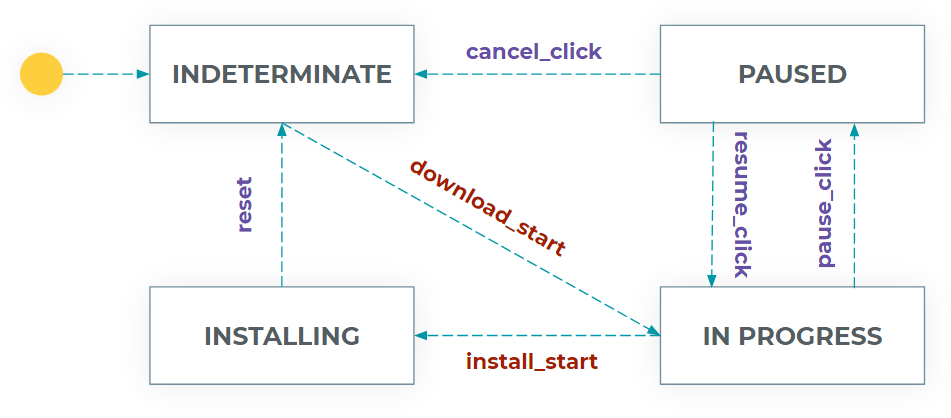
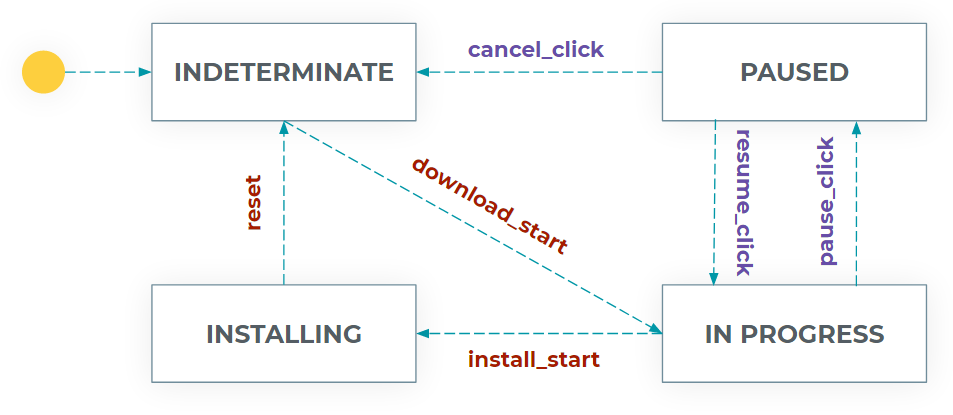
Changed docs

diff --git a/aptoide-views/src/main/java/cm/aptoide/aptoideviews/downloadprogressview/DownloadProgressView.kt b/aptoide-views/src/main/java/cm/aptoide/aptoideviews/downloadprogressview/DownloadProgressView.kt
@@ -16,7 +16,12 @@ import rx.Observable
 
 
 /**
- * This view is responsible for handling the display of download progress
+ * This view is responsible for handling the display of download progress.
+ *
+ * This is handled by a state machine represented below.
+ * Purple events are user-driven events while red events are set programatically.
+ *
+ *
  */
 class DownloadProgressView : FrameLayout {
   private var isPausable: Boolean = true
